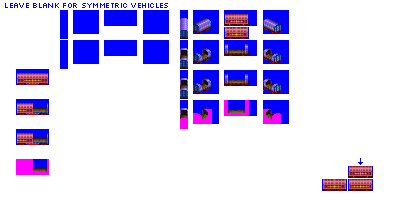
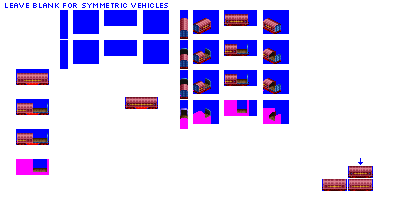
Change: sprites complete for gen 6 Sliding Roof Vans

diff --git a/src/vehicles/sliding_roof_cars.py b/src/vehicles/sliding_roof_cars.py
@@ -31,7 +31,7 @@ def main():
                             base_numeric_id=5220,
                             gen=6,
                             subtype='B',
-                            sprites_complete=False)
+                            sprites_complete=True)
 
     consist.add_unit(type=FreightCar,
                      chassis='2_axle_1cc_filled_24px')
@@ -41,7 +41,7 @@ def main():
                             base_numeric_id=5210,
                             gen=6,
                             subtype='C',
-                            sprites_complete=False)
+                            sprites_complete=True)
 
     consist.add_unit(type=FreightCar,
                      chassis='4_axle_1cc_filled_32px')
